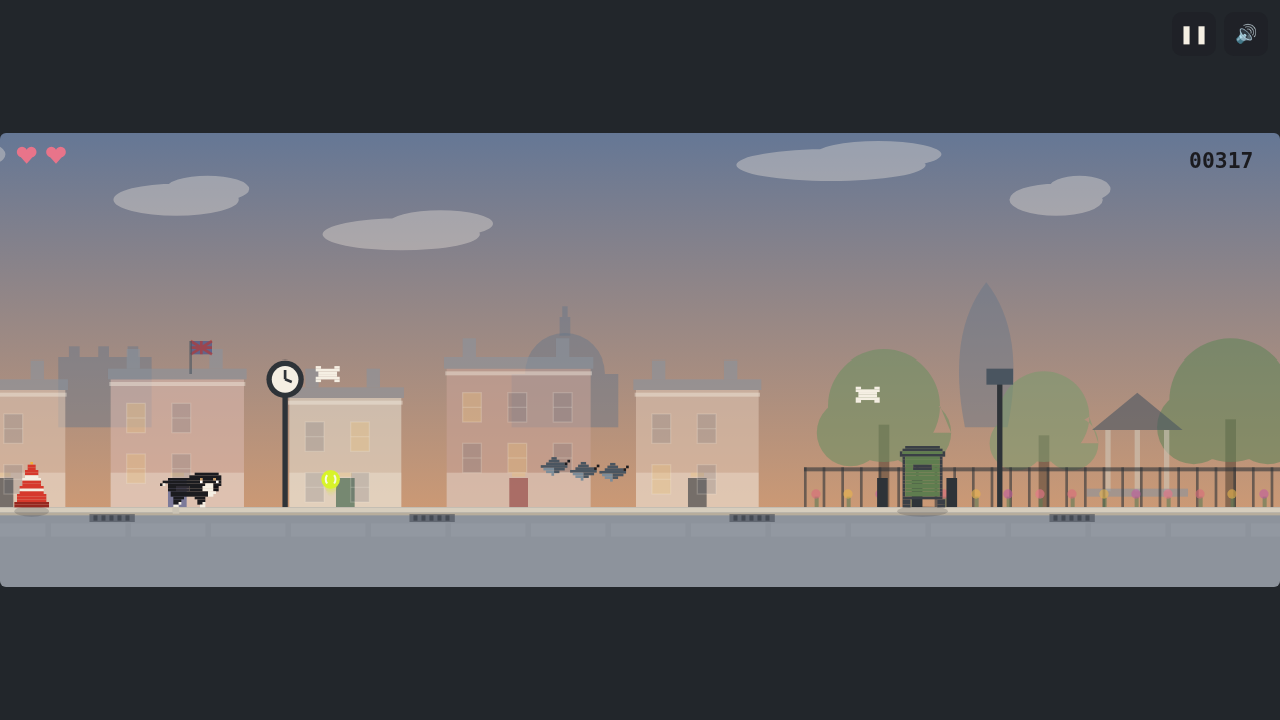
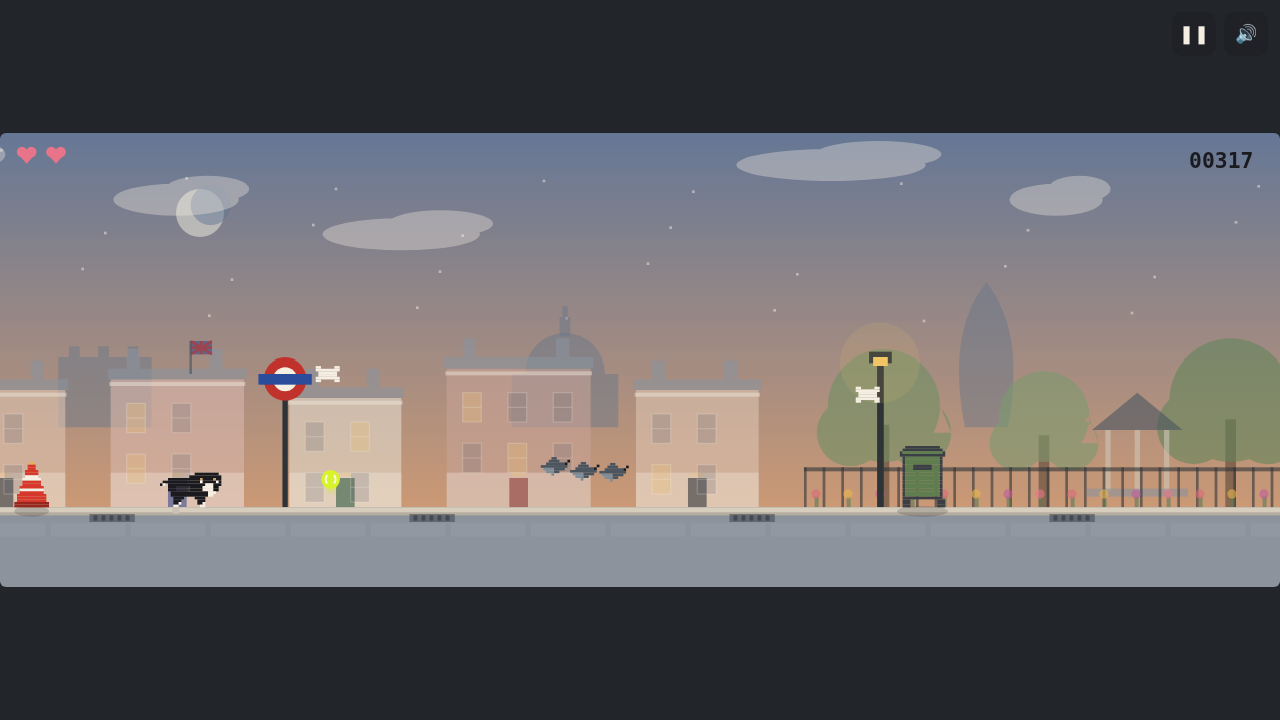
feat: restore roundels and bus stop signs, add sun/moon/stars, street clock

diff --git a/src/world/parallax.js b/src/world/parallax.js
@@ -188,8 +188,10 @@ function drawFurniture(ctx, x, variant, t, duskT) {
       ctx.fillStyle = '#2E3338';
       for (let i = 0; i < 3; i++) ctx.fillRect(x + i * 26, baseY - 22, 8, 22);
       ctx.fillRect(x + 90, baseY - 96, 4, 96);
-      ctx.fillStyle = '#4A5560';
+      ctx.fillStyle = '#C0322B';
       ctx.fillRect(x + 82, baseY - 104, 20, 12);
+      ctx.fillStyle = '#F5EFE3';
+      ctx.fillRect(x + 85, baseY - 100, 14, 4);
       break;
     }
     case 4: { // Park bench
@@ -199,6 +201,21 @@ function drawFurniture(ctx, x, variant, t, duskT) {
       ctx.fillStyle = '#2E3338';
       ctx.fillRect(x + 12, baseY - 22, 4, 22);
       ctx.fillRect(x + 44, baseY - 22, 4, 22);
+      break;
+    }
+    case 5: { // Underground roundel
+      ctx.fillStyle = '#2E3338';
+      ctx.fillRect(x + 14, baseY - 92, 4, 92);
+      ctx.fillStyle = '#C0322B';
+      ctx.beginPath();
+      ctx.arc(x + 16, baseY - 96, 16, 0, Math.PI * 2);
+      ctx.fill();
+      ctx.fillStyle = '#F5EFE3';
+      ctx.beginPath();
+      ctx.arc(x + 16, baseY - 96, 9, 0, Math.PI * 2);
+      ctx.fill();
+      ctx.fillStyle = '#2B4B9B';
+      ctx.fillRect(x - 4, baseY - 100, 40, 8);
       break;
     }
   }
@@ -233,6 +250,38 @@ export class Parallax {
     ctx.fillStyle = grad;
     ctx.fillRect(0, 0, LOGICAL_WIDTH, GROUND_Y);
 
+    // Sun by day, moon and stars by night (fixed positions, no flicker)
+    if (duskT < 0.55) {
+      ctx.save();
+      ctx.globalAlpha = 0.5 * (1 - duskT / 0.55);
+      ctx.fillStyle = '#F7EBC8';
+      ctx.beginPath();
+      ctx.arc(LOGICAL_WIDTH - 140, 64, 26, 0, Math.PI * 2);
+      ctx.fill();
+      ctx.restore();
+    }
+    if (duskT > 0.45) {
+      const nt = (duskT - 0.45) / 0.55;
+      ctx.save();
+      ctx.globalAlpha = 0.75 * nt;
+      ctx.fillStyle = '#F0EEDF';
+      ctx.beginPath();
+      ctx.arc(150, 60, 18, 0, Math.PI * 2);
+      ctx.fill();
+      ctx.fillStyle = lerpColor(PALETTE.sky2, DUSK_TOP, duskT);
+      ctx.beginPath();
+      ctx.arc(158, 54, 15, 0, Math.PI * 2);
+      ctx.fill();
+      ctx.globalAlpha = 0.7 * nt;
+      ctx.fillStyle = '#F5EFE3';
+      for (let si = 0; si < 26; si++) {
+        const sx = ((si * 173) % LOGICAL_WIDTH);
+        const sy = 12 + ((si * 97) % 130);
+        ctx.fillRect(sx, sy, 2, 2);
+      }
+      ctx.restore();
+    }
+
     // Clouds
     ctx.fillStyle = 'rgba(245,239,227,0.35)';
     for (const c of this.clouds) {
@@ -259,11 +308,11 @@ export class Parallax {
     ctx.restore();
 
     // Layer 4: street furniture
-    const fOff = ((this.scroll * 0.75) % (FURN_TILE * 5) + FURN_TILE * 5) % (FURN_TILE * 5);
+    const fOff = ((this.scroll * 0.75) % (FURN_TILE * 6) + FURN_TILE * 6) % (FURN_TILE * 6);
     for (let i = -1; i <= Math.ceil(LOGICAL_WIDTH / FURN_TILE) + 4; i++) {
       const worldIdx = Math.floor((this.scroll * 0.75) / FURN_TILE) + i;
       const x = i * FURN_TILE - (fOff % FURN_TILE);
-      const variant = ((worldIdx % 5) + 5) % 5;
+      const variant = ((worldIdx % 6) + 6) % 6;
       if (x > -120 && x < LOGICAL_WIDTH + 120) drawFurniture(ctx, x, variant, t, duskT);
     }
 
